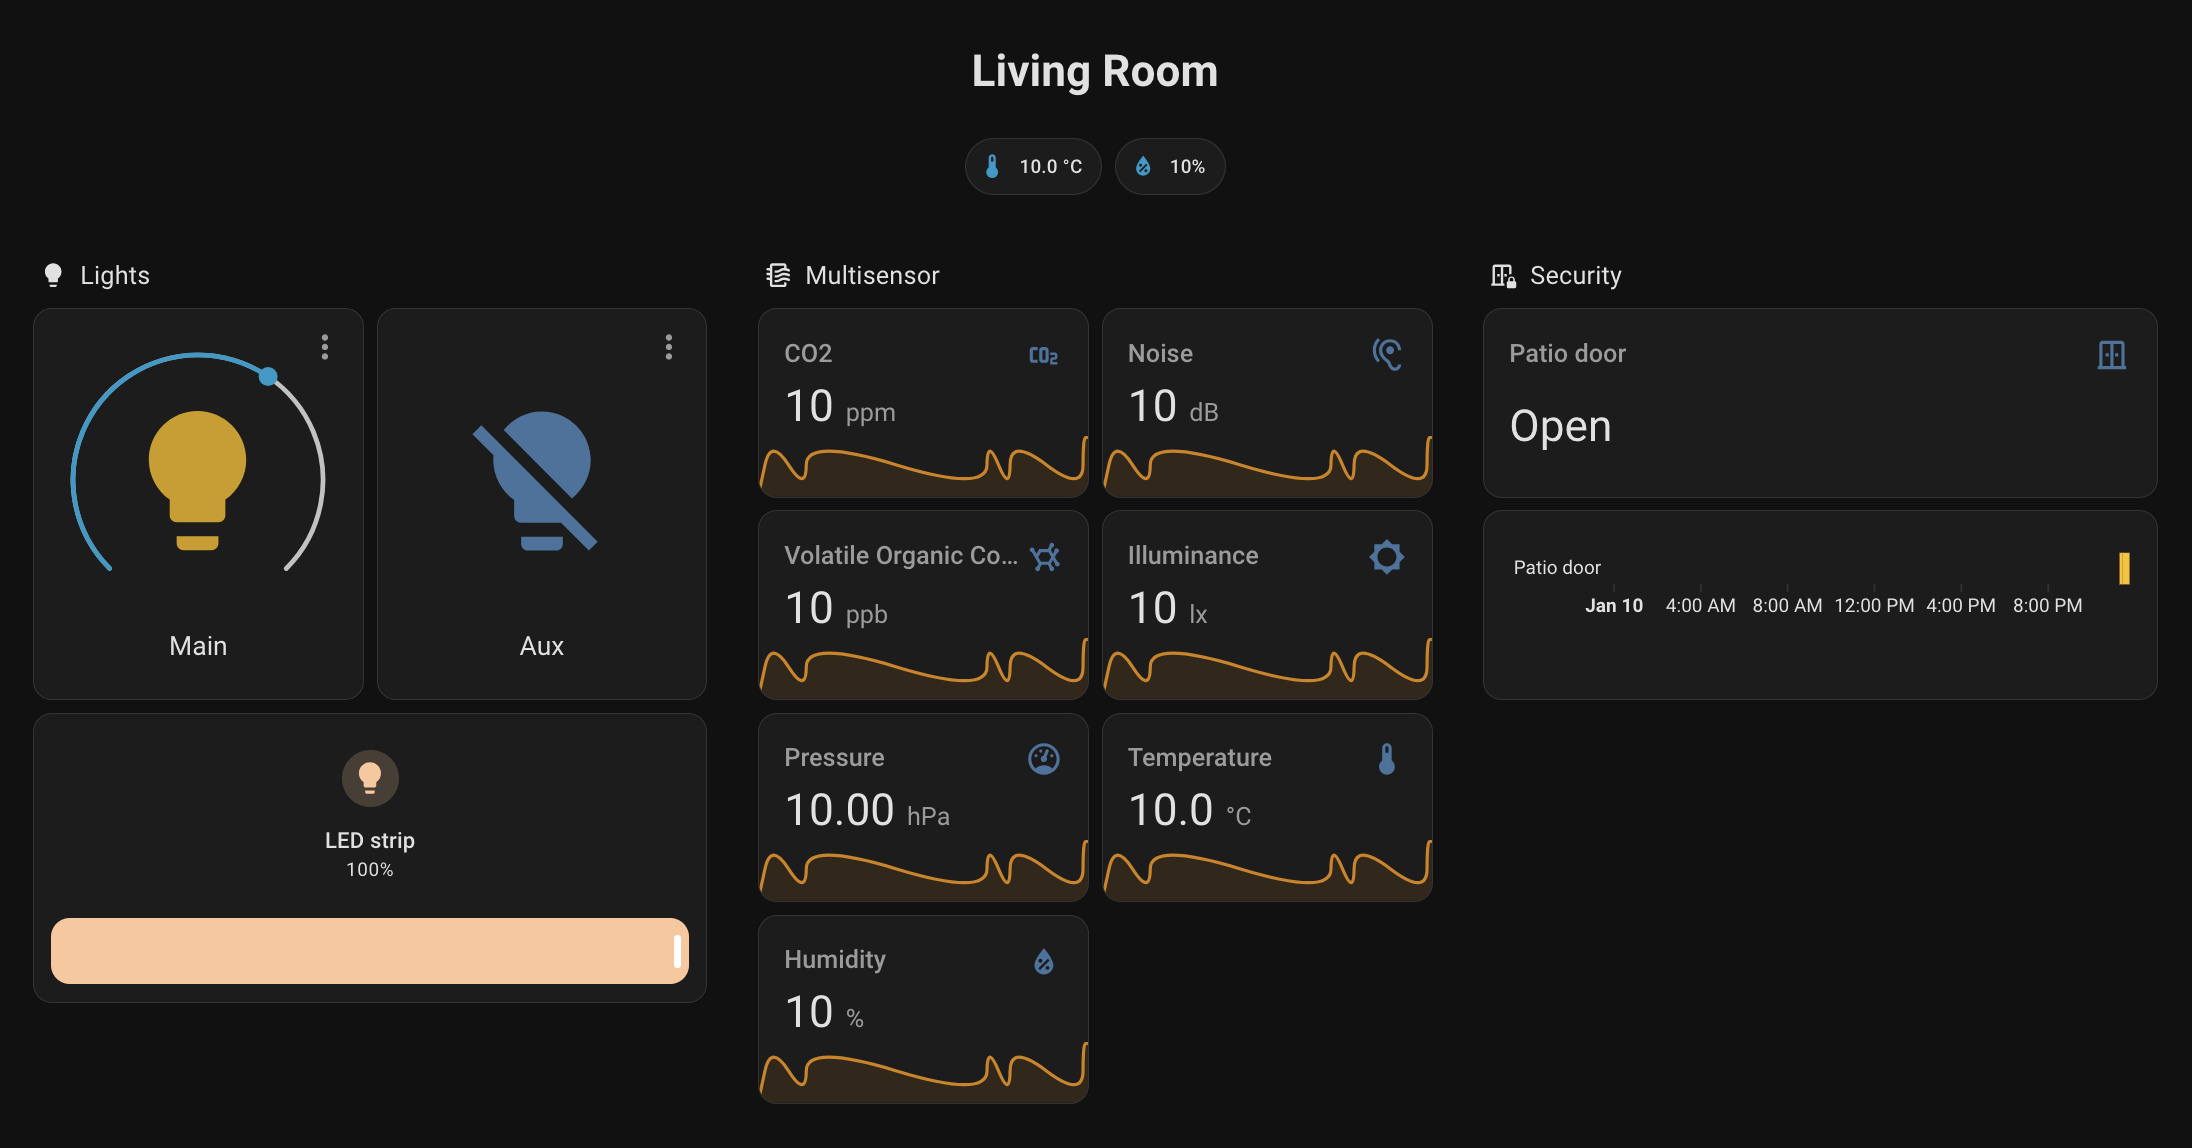
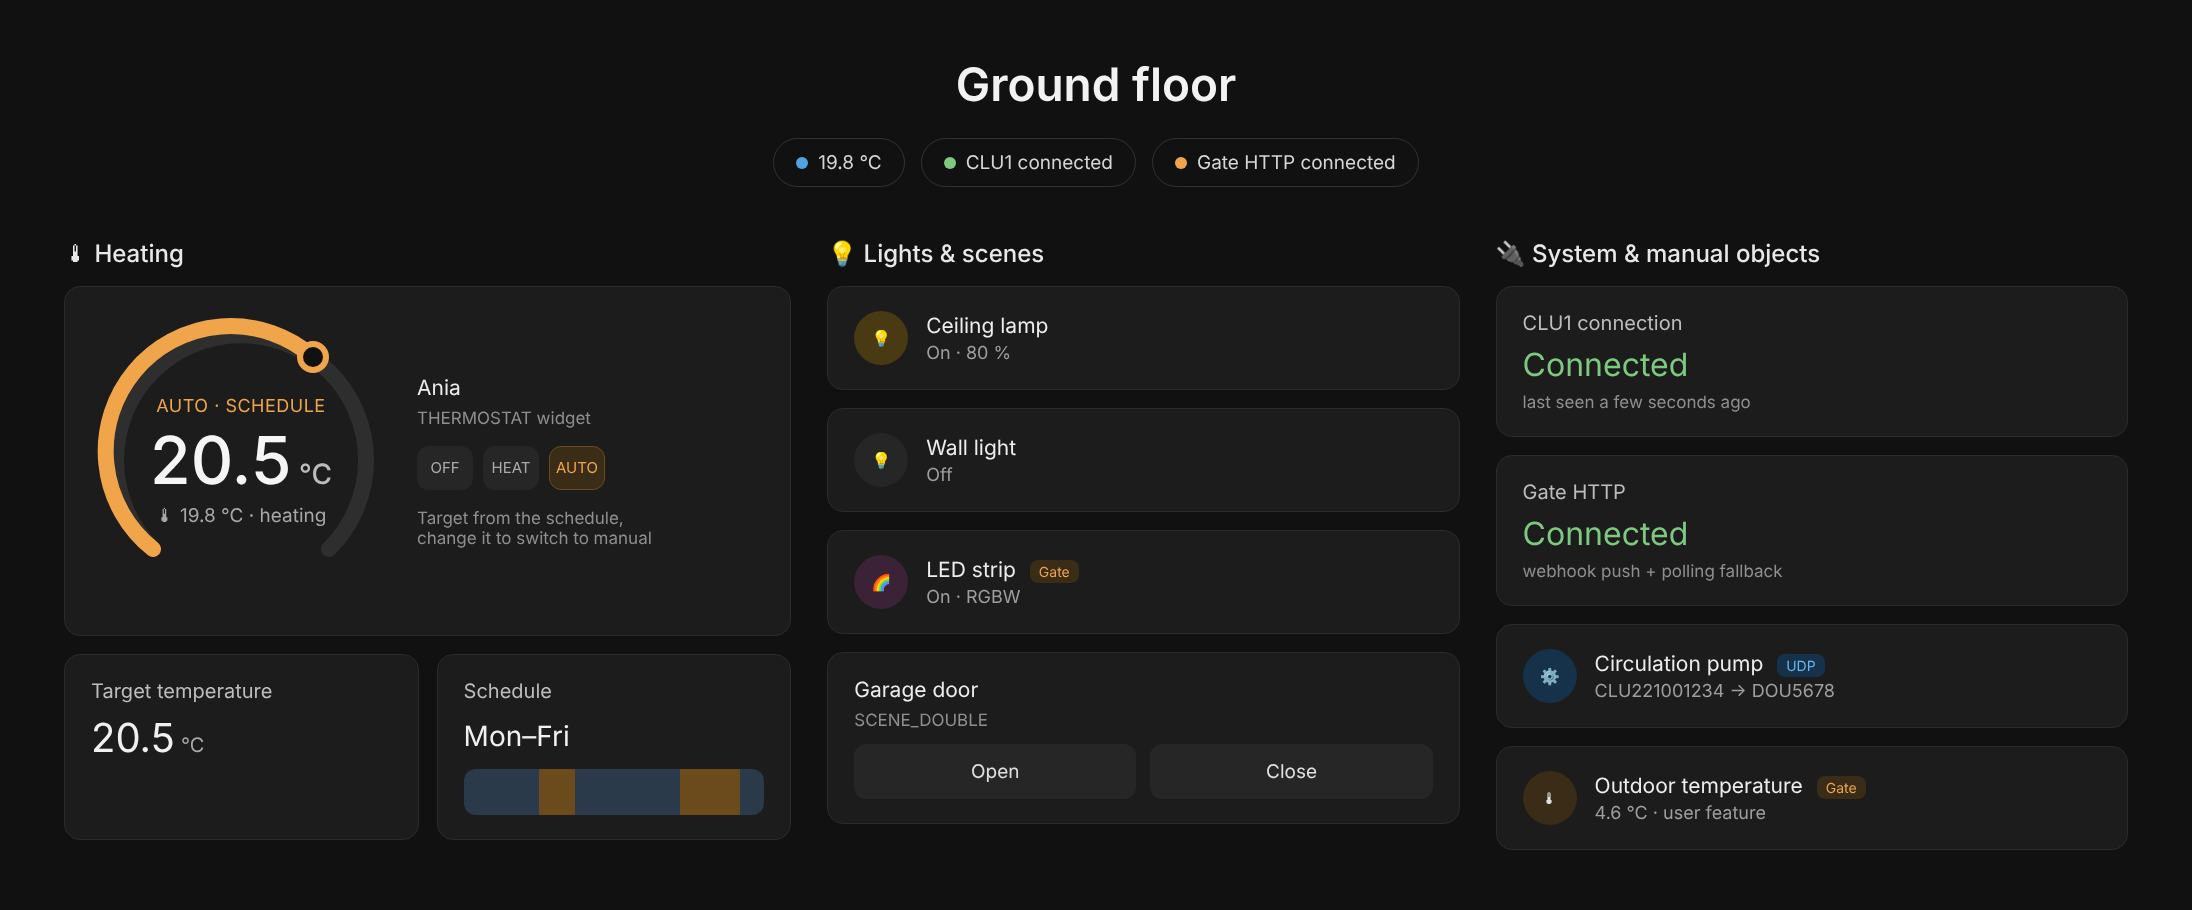
docs: refresh README and dashboard illustration
- Fork summary, new feature bullets, changelog (0.3.0, 0.3.1)
- Thermostat section describes the target in Auto and the target sensor;
  older THERMOSTAT widgets documented
- New dashboard illustration (marked as mockup) with its HTML source
- Acknowledgments for k911 and jnalepka

Claude-Session: https://claude.ai/code/session_01LHF65kP2cMHwnsryYKg59u

diff --git a/assets/dashboard.html b/assets/dashboard.html
@@ -1,0 +1,120 @@
+<!DOCTYPE html>
+<html><head><meta charset="utf-8">
+<style>
+  * { box-sizing: border-box; margin: 0; padding: 0; }
+  body { width: 2192px; height: 910px; background: #111111; font-family: Inter, sans-serif; color: #e1e1e1; padding: 56px 64px; }
+  h1 { text-align: center; font-size: 46px; font-weight: 600; color: #f2f2f2; }
+  .chips { display: flex; justify-content: center; gap: 16px; margin-top: 26px; }
+  .chip { border: 1px solid #333; border-radius: 28px; padding: 12px 22px; font-size: 19px; display: flex; align-items: center; gap: 10px; color: #d6d6d6; }
+  .dot { width: 12px; height: 12px; border-radius: 50%; display: inline-block; }
+  .grid { display: grid; grid-template-columns: 1.15fr 1fr 1fr; gap: 36px; margin-top: 52px; }
+  .col h2 { font-size: 24px; font-weight: 500; margin-bottom: 18px; display: flex; align-items: center; gap: 12px; color: #e8e8e8; }
+  .card { background: #1c1c1c; border: 1px solid #2b2b2b; border-radius: 16px; padding: 24px 26px; margin-bottom: 18px; }
+  .row { display: grid; grid-template-columns: 1fr 1fr; gap: 18px; }
+  .label { font-size: 20px; color: #bdbdbd; }
+  .value { font-size: 40px; margin-top: 10px; color: #f0f0f0; }
+  .value small { font-size: 20px; color: #a9a9a9; margin-left: 6px; }
+  .muted { color: #8f8f8f; font-size: 17px; margin-top: 8px; }
+  .thermo { display: flex; gap: 26px; align-items: center; }
+  .dial { position: relative; width: 300px; height: 300px; flex: none; }
+  .dial .center { position: absolute; inset: 0; display: flex; flex-direction: column; align-items: center; justify-content: center; }
+  .dial .mode { font-size: 18px; color: #f0a54a; letter-spacing: .5px; }
+  .dial .target { font-size: 66px; font-weight: 500; color: #f5f5f5; margin: 4px 0; }
+  .dial .target span { font-size: 28px; color: #bbb; }
+  .dial .current { font-size: 19px; color: #a8a8a8; }
+  .modes { display: flex; gap: 10px; margin-top: 18px; }
+  .mbtn { width: 56px; height: 44px; border-radius: 12px; background: #262626; display: flex; align-items: center; justify-content: center; font-size: 15px; color: #aaa; }
+  .mbtn.on { background: #3a2c17; color: #f0a54a; border: 1px solid #6b4a1c; }
+  .bar { height: 46px; border-radius: 12px; background: #272727; margin-top: 16px; overflow: hidden; display: flex; }
+  .seg { height: 100%; }
+  .tile { display: flex; align-items: center; gap: 18px; }
+  .ico { width: 54px; height: 54px; border-radius: 50%; display: flex; align-items: center; justify-content: center; flex: none; }
+  .state { font-size: 18px; color: #9e9e9e; margin-top: 4px; }
+  .name { font-size: 21px; color: #ededed; }
+  .tag { font-size: 14px; border-radius: 8px; padding: 3px 9px; margin-left: 8px; vertical-align: middle; }
+  .udp { background: #15324a; color: #67b7f2; }
+  .gate { background: #3a2c17; color: #f0a54a; }
+  .btns { display: flex; gap: 14px; margin-top: 14px; }
+  .sbtn { flex: 1; background: #262626; border-radius: 12px; padding: 16px; text-align: center; font-size: 19px; color: #e0e0e0; }
+  .ok { color: #7cc97f; }
+</style></head>
+<body>
+  <h1>Ground floor</h1>
+  <div class="chips">
+    <div class="chip"><span class="dot" style="background:#4fa3e0"></span>19.8 °C</div>
+    <div class="chip"><span class="dot" style="background:#7cc97f"></span>CLU1 connected</div>
+    <div class="chip"><span class="dot" style="background:#f0a54a"></span>Gate HTTP connected</div>
+  </div>
+
+  <div class="grid">
+    <!-- Heating -->
+    <div class="col">
+      <h2>🌡&nbsp;Heating</h2>
+      <div class="card">
+        <div class="thermo">
+          <div class="dial">
+            <svg width="300" height="300" viewBox="0 0 300 300">
+              <path d="M 62 238 A 125 125 0 1 1 238 238" fill="none" stroke="#2e2e2e" stroke-width="16" stroke-linecap="round"/>
+              <path d="M 62 238 A 125 125 0 1 1 222 46" fill="none" stroke="#f0a54a" stroke-width="16" stroke-linecap="round"/>
+              <circle cx="222" cy="46" r="13" fill="#111" stroke="#f0a54a" stroke-width="6"/>
+            </svg>
+            <div class="center">
+              <div class="mode">AUTO · SCHEDULE</div>
+              <div class="target">20.5<span> °C</span></div>
+              <div class="current">🌡 19.8 °C · heating</div>
+            </div>
+          </div>
+          <div style="flex:1">
+            <div class="name">Ania</div>
+            <div class="muted">THERMOSTAT widget</div>
+            <div class="modes">
+              <div class="mbtn">OFF</div><div class="mbtn">HEAT</div><div class="mbtn on">AUTO</div>
+            </div>
+            <div class="muted" style="margin-top:18px">Target from the schedule,<br>change it to switch to manual</div>
+          </div>
+        </div>
+      </div>
+      <div class="row">
+        <div class="card"><div class="label">Target temperature</div><div class="value">20.5<small>°C</small></div></div>
+        <div class="card"><div class="label">Schedule</div><div class="value" style="font-size:28px;margin-top:16px">Mon–Fri</div>
+          <div class="bar">
+            <div class="seg" style="width:25%;background:#2b3a4a"></div><div class="seg" style="width:12%;background:#6b4a1c"></div>
+            <div class="seg" style="width:35%;background:#2b3a4a"></div><div class="seg" style="width:20%;background:#6b4a1c"></div>
+            <div class="seg" style="width:8%;background:#2b3a4a"></div>
+          </div></div>
+      </div>
+    </div>
+
+    <!-- Lights & scenes -->
+    <div class="col">
+      <h2>💡&nbsp;Lights &amp; scenes</h2>
+      <div class="card tile"><div class="ico" style="background:#4a3a14">💡</div>
+        <div><div class="name">Ceiling lamp</div><div class="state">On · 80 %</div></div></div>
+      <div class="card tile"><div class="ico" style="background:#262626">💡</div>
+        <div><div class="name">Wall light</div><div class="state">Off</div></div></div>
+      <div class="card tile"><div class="ico" style="background:#3b2236">🌈</div>
+        <div><div class="name">LED strip <span class="tag gate">Gate</span></div><div class="state">On · RGBW</div></div></div>
+      <div class="card">
+        <div class="name">Garage door</div><div class="muted">SCENE_DOUBLE</div>
+        <div class="btns"><div class="sbtn">Open</div><div class="sbtn">Close</div></div>
+      </div>
+    </div>
+
+    <!-- System -->
+    <div class="col">
+      <h2>🔌&nbsp;System &amp; manual objects</h2>
+      <div class="card">
+        <div class="label">CLU1 connection</div><div class="value ok" style="font-size:32px">Connected</div>
+        <div class="muted">last seen a few seconds ago</div>
+      </div>
+      <div class="card">
+        <div class="label">Gate HTTP</div><div class="value ok" style="font-size:32px">Connected</div>
+        <div class="muted">webhook push + polling fallback</div>
+      </div>
+      <div class="card tile"><div class="ico" style="background:#15324a">⚙</div>
+        <div><div class="name">Circulation pump <span class="tag udp">UDP</span></div><div class="state">CLU221001234 → DOU5678</div></div></div>
+      <div class="card tile"><div class="ico" style="background:#3a2c17">🌡</div>
+        <div><div class="name">Outdoor temperature <span class="tag gate">Gate</span></div><div class="state">4.6 °C · user feature</div></div></div>
+    </div>
+  </div>
+</body></html>

diff --git a/README.md b/README.md
@@ -1,6 +1,8 @@
 # Home Assistant Grenton
 
-> Fork of [k911/homeassistant-grenton](https://github.com/k911/homeassistant-grenton) (itself based on [sszczep/homeassistant-grenton](https://github.com/sszczep/homeassistant-grenton)) with manually added objects over UDP or Gate HTTP, Gate webhook push and import-time naming.
+> Fork of [k911/homeassistant-grenton](https://github.com/k911/homeassistant-grenton) (based on [sszczep/homeassistant-grenton](https://github.com/sszczep/homeassistant-grenton)).
+> Adds objects outside the myGrenton interface (over UDP or **Gate HTTP**), older **THERMOSTAT** widgets, **SCENE_DOUBLE**,
+> names/units/precision at import, migration from **Grenton Objects** and a diagnostics download.
 
 [![hacs_badge](https://img.shields.io/badge/HACS-Custom-41BDF5.svg?style=for-the-badge)](https://github.com/hacs/integration)
 [![GitHub release](https://img.shields.io/github/v/release/wirczur/homeassistant-grenton?style=for-the-badge)](https://github.com/wirczur/homeassistant-grenton/releases)
@@ -8,7 +10,9 @@
 
 Custom Home Assistant integration for **Grenton Smart Home** system. Seamlessly connect and control your Grenton devices through Home Assistant with automatic discovery, real-time updates, and full configuration support.
 
-![Grenton Integration](assets/dashboard.png)
+![Illustrative Home Assistant dashboard with Grenton thermostats, lights, scenes, CLU and Gate HTTP status](assets/dashboard.png)
+
+<sub>Illustration of the entities this integration provides (mockup, sample values).</sub>
 
 ## ✨ Features
 
@@ -17,6 +21,12 @@ Custom Home Assistant integration for **Grenton Smart Home** system. Seamlessly 
 - **🏠 Multiple Widget Types** - Support for lights, switches, dimmers, sensors, covers, and more
 - **Thermostats** - `THERMOSTAT_V2` climate entities with heating, optional cooling, a weekly schedule editor, temperature readings, and activity status
 - **⚙ Per-Entity Configuration** - Customize device class and unit of measurement for each supported entity through the UI
+- **🌡 Older thermostats** - `THERMOSTAT` widgets get the same climate entity as `THERMOSTAT_V2`; the target is shown also while following the schedule, plus a **Target temperature** sensor
+- **🧩 Objects outside the interface** - Add any `CLU->OBJECT` (switch, light, dimmer, LED, cover, thermostat, sensor, script) over **UDP** or **Gate HTTP**, Z-Wave variants included
+- **🌐 Gate HTTP** - Batched polling, optional webhook push for instant updates, connectivity sensor
+- **🏷 Names, areas, units and precision** - Set them per page while importing, change them later in **Configure**
+- **🔁 Migration from Grenton Objects** - Import objects and keep their `entity_id`, names, icons and areas
+- **🩺 Diagnostics** - Download with the exact reason for every skipped widget (secrets redacted)
 - **🔄 Real-time Updates** - Automatic state synchronization with Grenton system
 - **🌍 Multi-language Support** - Fully translated UI in English and Polish
 - **📱 Modern UI** - Native Home Assistant integration with clean configuration flows
@@ -34,13 +44,13 @@ Custom Home Assistant integration for **Grenton Smart Home** system. Seamlessly 
 | **CONTACT_SENSOR** | Contact/door/window sensor exposed as `binary_sensor`. |
 | **CONTACT_SENSOR_DOUBLE** | Dual contact channels exposed as two `binary_sensor` entities. |
 | **SLIDER** | User-configurable numeric control exposed as `number` (slider/box/auto modes). |
-| [**THERMOSTAT_V2**](#thermostat-thermostat_v2) | Thermostat exposed as `climate`, with optional cooling, manual targets, editable weekly schedules, temperature/activity feedback, and a read-only Schedule sensor. |
+| [**THERMOSTAT_V2**](#thermostat-thermostat_v2) | Thermostat exposed as `climate`, with optional cooling, target shown also in Auto, editable weekly schedules, temperature/activity feedback, and read-only Schedule and Target temperature sensors. |
 | **MULTISENSOR** | Composite multi-channel sensor mapped to multiple `sensor` entities (as provided). |
 | **ROLLER_SHUTTER** | Legacy roller shutter exposed as `sensor` (state enum) plus a `button` action entity. |
 | **ROLLER_SHUTTER_V3** | Roller shutter V3 exposed as a single `cover` entity (position; lamel/tilt when available). |
 | **CAMERA** | Camera stream exposed as `camera`. |
 | **SCENE** | Scene buttons with configurable script, method, attribute, or variable actions and arguments. |
-| **THERMOSTAT** | Older thermostat widget, converted to the THERMOSTAT_V2 bindings (same object features), so it gets the same climate entity, schedule and limit sensors. |
+| [**THERMOSTAT**](#thermostat-thermostat_v2) | Older thermostat widget, converted to the THERMOSTAT_V2 bindings (same object features), so it gets the same climate entity, schedule and limit sensors. |
 | **SCENE_DOUBLE** | Two scene buttons (e.g. open/close) exposed as `button` entities, configurable like SCENE. The widget JSON is parsed tolerantly; if yours is skipped, attach the integration diagnostics to an issue. |
 
 See [Device specifications](#device-specifications) for detailed behavior and setup.
@@ -437,9 +447,12 @@ cooling schedule, the climate state is `auto`, `control_direction_name` is
 The numeric value is also available as `control_direction`. Disabling cooling
 hides Cool without changing the running CLU settings.
 
-Manual target temperatures use 0.5°C increments. Temperature editing is disabled
-in Auto; choose Heat or Cool before changing the target. A temperature action
-cannot leave Auto, including when it also requests a manual mode.
+Manual target temperatures use 0.5°C increments. The target is shown on the card
+in every mode, including **Auto** where it comes from the schedule. Changing it while
+in Auto (or another non-manual mode) writes the new target and switches to manual
+**Heat** (or **Cool** when cooling is enabled and selected); choose **Auto** again to
+return to the schedule. A request that sets a temperature together with **Auto** is
+rejected, because the schedule owns the target there.
 Setting only a temperature in manual mode preserves the enabled state.
 The widget's minimum and maximum temperature bindings supply the control's bounds.
 Each device also exposes **Minimum temperature** and **Maximum temperature** sensors
@@ -453,8 +466,13 @@ or change the manual target first. Limits and schedules are read back from the C
 before success is reported. A failed multi-write save can leave partial changes;
 reopen configuration to inspect the device's current values before retrying.
 Home Assistant converts Celsius temperatures to the installation's preferred unit.
-While Auto hides the editable target control, the effective scheduled target is
-available as the read-only `scheduled_target_temperature_celsius` attribute.
+The effective target (manual or scheduled) is also available as the read-only
+**Target temperature** sensor and, in Auto, as the `scheduled_target_temperature_celsius`
+attribute.
+
+Older `THERMOSTAT` widgets (one component per role: state, mode, current/target
+temperature, operational state, schedule, schedule min/max) address the same object
+features and are converted to these bindings, so they behave exactly the same.
 
 Activity comes from `controlOutValue`: 1 means heating or cooling according to
 direction, and 0 means idle when enabled. Unsupported or missing values remain unknown.
@@ -851,6 +869,21 @@ Configure sliders with appropriate device classes for proper representation:
 3. For polled values, check the CLU's slow-read interval (default: 60 seconds)
 4. Check Grenton device is responding to queries
 
+## 📋 Changelog
+
+### 0.3.1
+- Thermostat target visible in schedule mode (Auto); changing it switches to manual
+- New read-only **Target temperature** sensor per thermostat
+
+### 0.3.0
+- `THERMOSTAT` (older) widgets via the THERMOSTAT_V2 climate entity; HEADER/TEXT skipped silently
+- `SCENE_DOUBLE` widgets as two scene buttons
+- **Configure → Import from Grenton Objects** with entity_id takeover
+- Manual objects over UDP or Gate HTTP, Gate webhook push and connectivity sensor
+- Names, areas, units and precision during import and in Configure
+- Diagnostics download; one warning per skipped widget type
+- Merged k911 (THERMOSTAT_V2, CLU devices, protocol improvements) and sszczep PRs #14–#16
+
 ## 📝 License
 
 This project is licensed under the **GNU General Public License v3.0**.
@@ -880,6 +913,8 @@ For issues, questions, or contributions:
 ## 🙏 Acknowledgments
 
 - [@sszczep](https://github.com/sszczep), author of the original Grenton integration
+- [@k911](https://github.com/k911), whose fork this builds on (THERMOSTAT_V2, CLU devices, protocol work)
+- [@jnalepka](https://github.com/jnalepka), author of Grenton Objects; the Gate HTTP listener format is kept compatible
 - Home Assistant community for the excellent platform
 - Grenton for their smart home system
 - All contributors and users of this integration
